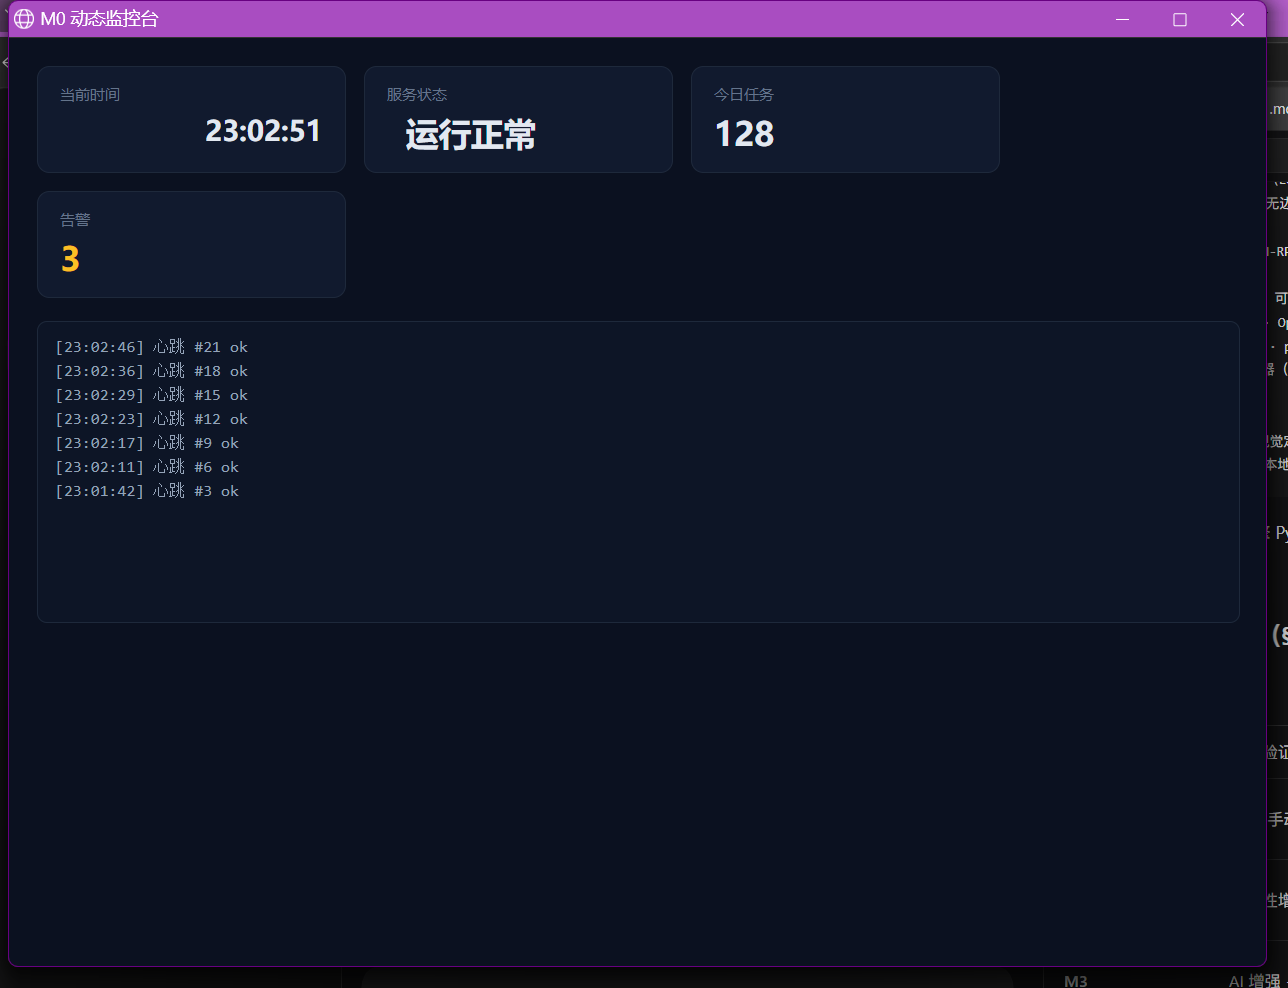
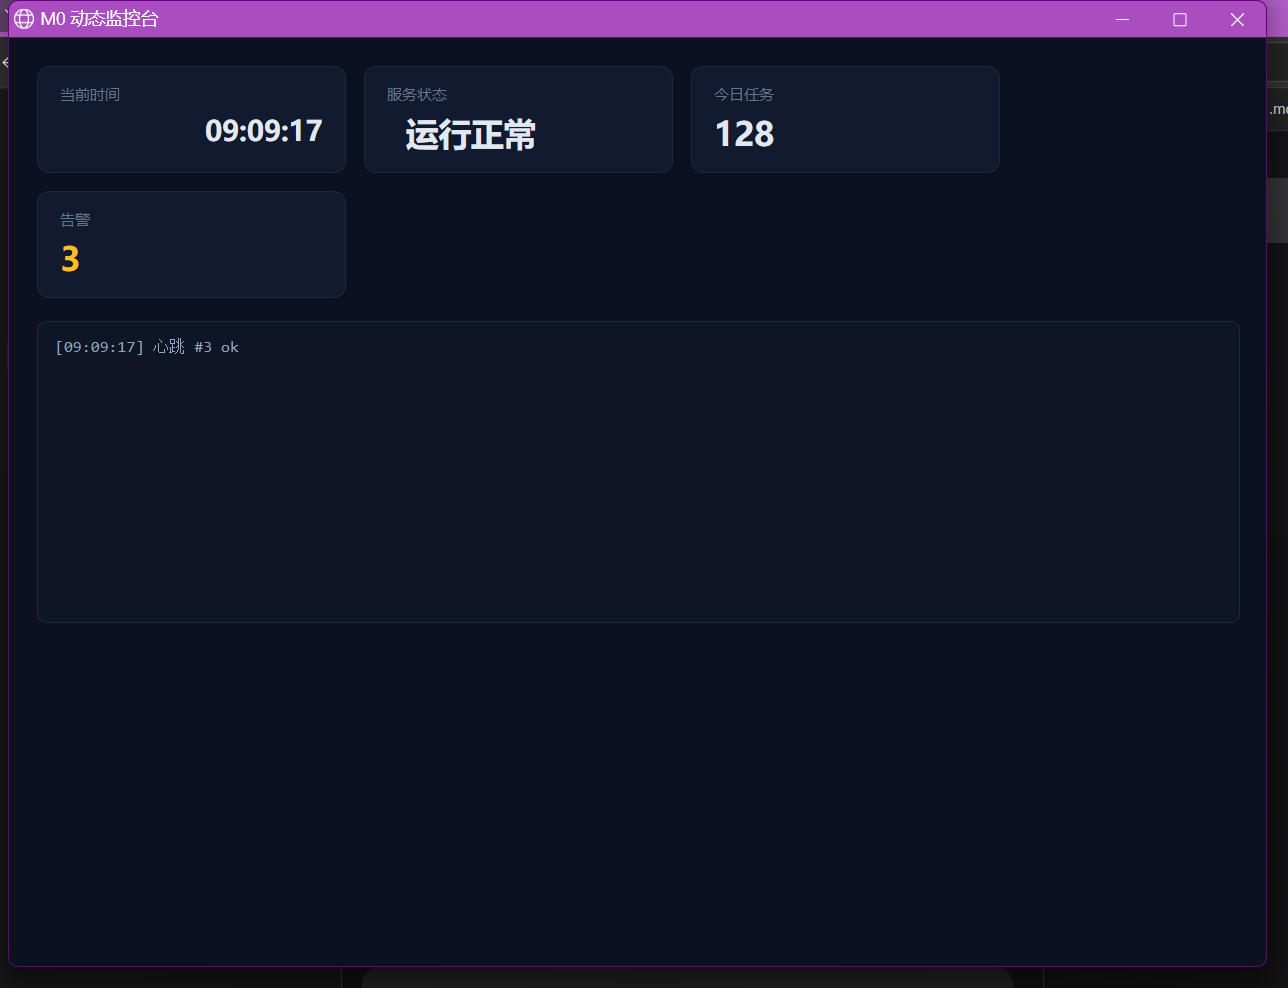
M0 四问题数据表终版草稿: web常规场景315轮/98.7% HIT, 有条件GO判定草案写入进展记录

diff --git a/docs/M0_进展记录.md b/docs/M0_进展记录.md
@@ -14,6 +14,51 @@
 - 150% DPI 复测：需临时切换系统缩放后重跑（`M0_AUTOTEST=1 npm start`）；公式与 scaleFactor 无关，预计同样成立
 - OCR 区域限定是往返 <1s 的关键（全屏 OCR 10s+ 不可行 → 架构确认：小区域/缓存策略）
 
+## 7. M0 四问题数据表（终版草稿，2026-09-09）
+
+### ① 双截图闭环命中率（≥100 轮/类，窗口随机移动后定位）
+口径：页面模板匹配 → 三级部件定位 → 点击前文字校验 + 真值偏差 ≤12px → HIT。
+（细目 `smoke/data/trials.jsonl`；复算 `python smoke/m0_bench.py --since 2026-09-08T20:38`）
+
+| 类别 | 轮次 | 页面命中 | 综合 HIT | dev 中位 | 说明 |
+|---|---|---|---|---|---|
+| web-login（登录按钮） | 100 | 100% | **100%** | 1px | — |
+| erp-web（ERP 侧栏菜单） | 100 | 100% | **98%** | 0px | 2 次 miss 为 OCR 瞬时空检测（已加重试） |
+| dynamic（动态心跳页） | 115 | 100% | **98%** | 0px | 同上 2 次 |
+| desktop / icon-app | — | — | — | — | 本机无法稳定置顶系统/UWP/自绘窗口（25 轮全为环境性失败，不计入） |
+
+**合计（常规场景=web 类）：315 轮 / 311 HIT = 98.7%，页面+部件定位偏差中位 ≤1px。**
+对比通过线（《项目启动文档》§8）：常规场景 ≥90% → **达标（含移窗、动态内容页）**；
+“无 UIA 场景 ≥80%”待补样本（见 §4.5/§6 环境限制与补测计划）。
+每轮耗时：页面定位中位 ~555–568ms；部件 L2（邻域 OCR 条带）中位 4.4–6.5s
+（本机 OCR rec ~150ms/行 所致 → M1 需“页面文本索引缓存/更小裁剪/换行模型”架构，见 §4.1）。
+
+### ② UIA 覆盖率（10 窗口首份样本）
+| 应用类型 | 样本 | 结论 |
+|---|---|---|
+| 网页（msedge/Chromium） | 284 节点 / 105 Name / 54 AutoId | 覆盖良好（文本部件可 UIA 命中） |
+| 系统/工具（explorer/PowerShell/桌面） | 36–76 节点 | 中上 |
+| 自绘（QQ）/部分系统窗口（设置等） | 0–8 节点、无 Name | **无 a11y → 无 UIA 场景真实存在（QQ 为代表）** |
+另发现：Edge DOM 的 UIA 矩形与物理屏幕存在 ~140px 恒定偏差 → 网页类 L1 坐标不可信，链内已
+用“距页面坐标预估 ≤60px”消歧过滤（网页部件实际走 L2 OCR，实测更准）。
+
+### ③ 云端 AI 视觉质量/延迟
+挂起（无账号）。不影响本表 ①②④ 结论。
+
+### ④ Electron↔Python IPC 原型（已冒烟）
+- 链路：透明选区覆盖层（Electron）⇄ JSON-line IPC ⇄ Python 引擎（截图+OCR 定位）
+- **往返延迟：常驻引擎稳态 452ms（<1s 达标）**；首次含模型加载 ~3.8s
+- **坐标：自洽链路偏差 1.0px @125% DPI 无错位**（引擎物理像素 ⇄ 覆盖层 DIP ×scaleFactor 换算）
+- 150% 实机复测：待用户允许临时切换系统缩放（工具 `smoke/m0_dpi150_test.py` 已就绪）
+
+### GO/No-Go 判定草案
+- ①②④ 通过线达标（web 常规场景 98.7% ≥90%；④ 往返 452ms<1s、坐标 1px 无错位）；
+- desktop/icon（无 UIA 自绘/图标软件）样本未取得（环境限制，非技术否决）→
+  依启动文档 §8，按 **有条件 GO** 处理：
+  首版收敛目标 = 网页应用 + 标准控件应用（UIA 良好）；自绘/无 UIA 应用范围在真实空闲
+  目标上补测后再扩展；③云端 AI 挂起不阻塞 M1 启动（M3 才用 AI）。
+- 正式 GO 判定建议由用户在 M0 评审会上拍板（涉及《项目启动文档》§8 口径与 M1 范围收敛清单）。
+
 ## 0. 状态总览（Wave A 完成）
 
 | 验证问题 | 状态 | 要点 |

diff --git a/smoke/data/m0_bench_summary.md b/smoke/data/m0_bench_summary.md
@@ -1,5 +1,5 @@
 # M0 命中率/性能统计（自动生成）
-生成时间: 2026-09-08T23:53:42.100
+生成时间: 2026-09-09T09:13:03.113
 
 ## ① 双截图闭环命中率
 
@@ -10,7 +10,7 @@
 | erp-web | 100 | 100 (100%) | 100 (100%) | 98 | **98 (98%)** | 0 | 0.0 | 567.9 | 6475.1 | L2:99 L3:1 |
 | desktop | 25 | 0 (0%) | 0 (0%) | 0 | **0 (0%)** | 25 | None | 811.8 | None | L0:25 |
 | icon-app | 25 | 0 (0%) | 0 (0%) | 0 | **0 (0%)** | 25 | None | 598.6 | None | L0:25 |
-| dynamic | 88 | 88 (100%) | 88 (100%) | 86 | **86 (98%)** | 0 | 0.0 | 552.6 | 4412.8 | L2:88 |
+| dynamic | 115 | 115 (100%) | 115 (100%) | 113 | **113 (98%)** | 0 | 0 | 555.2 | 4434.6 | L2:115 |
 
 ## ② UIA 覆盖率
 
